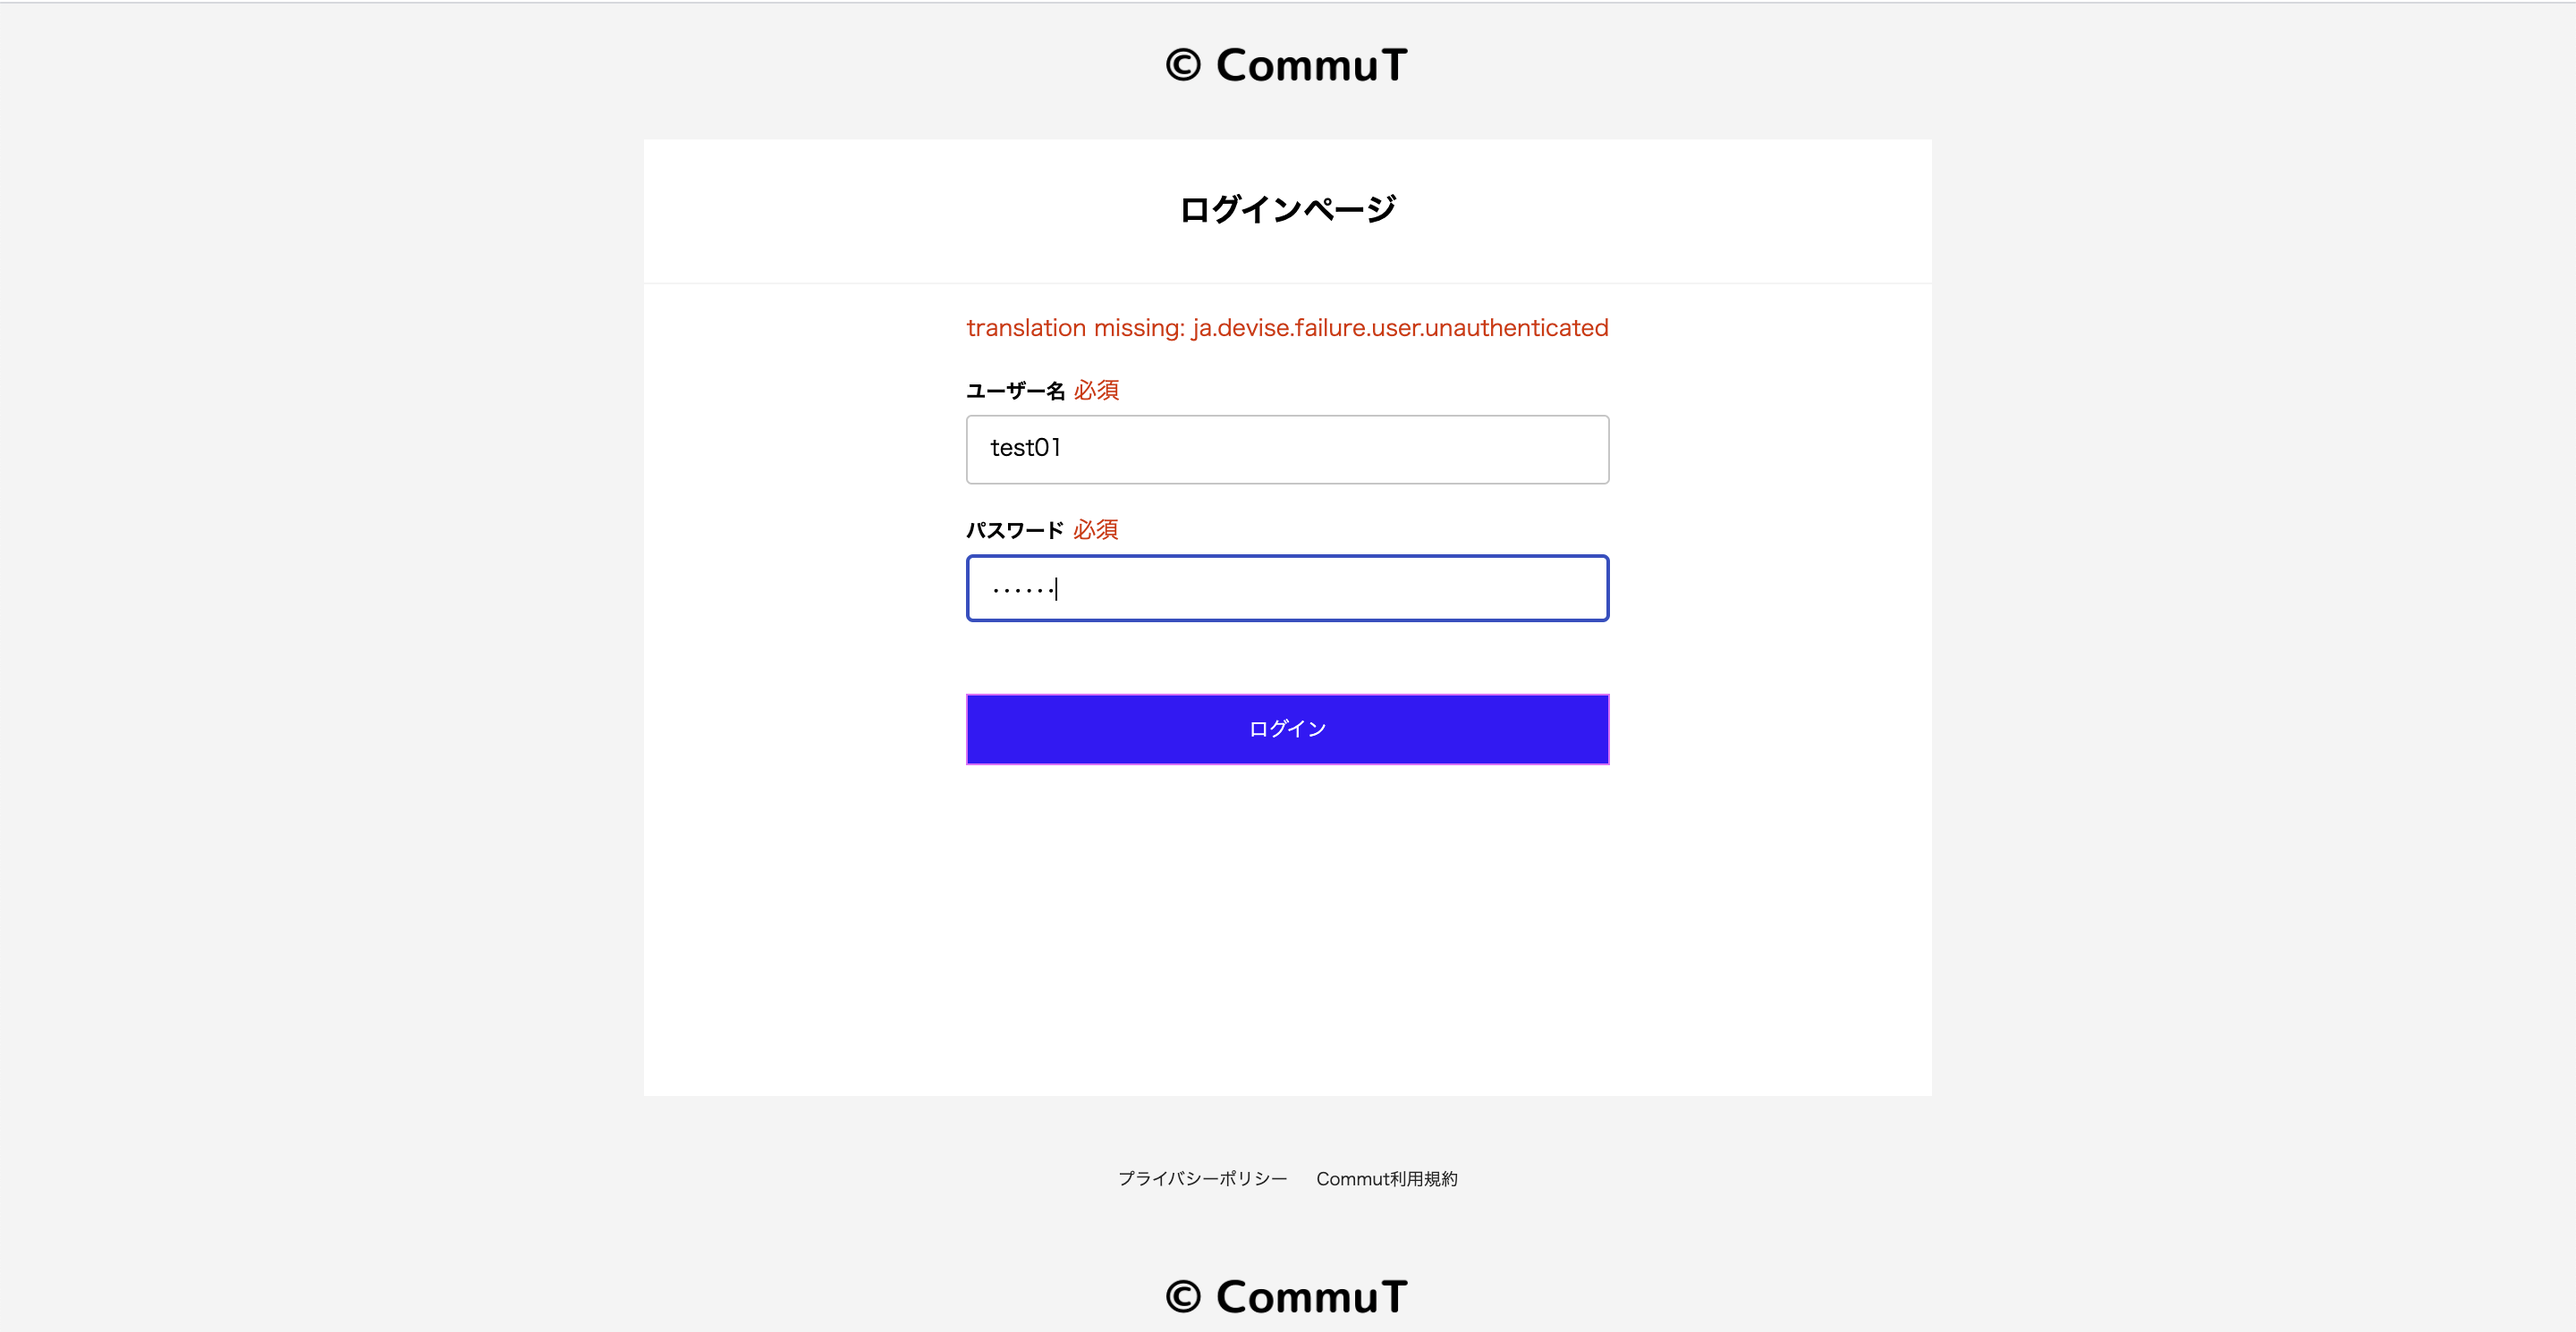
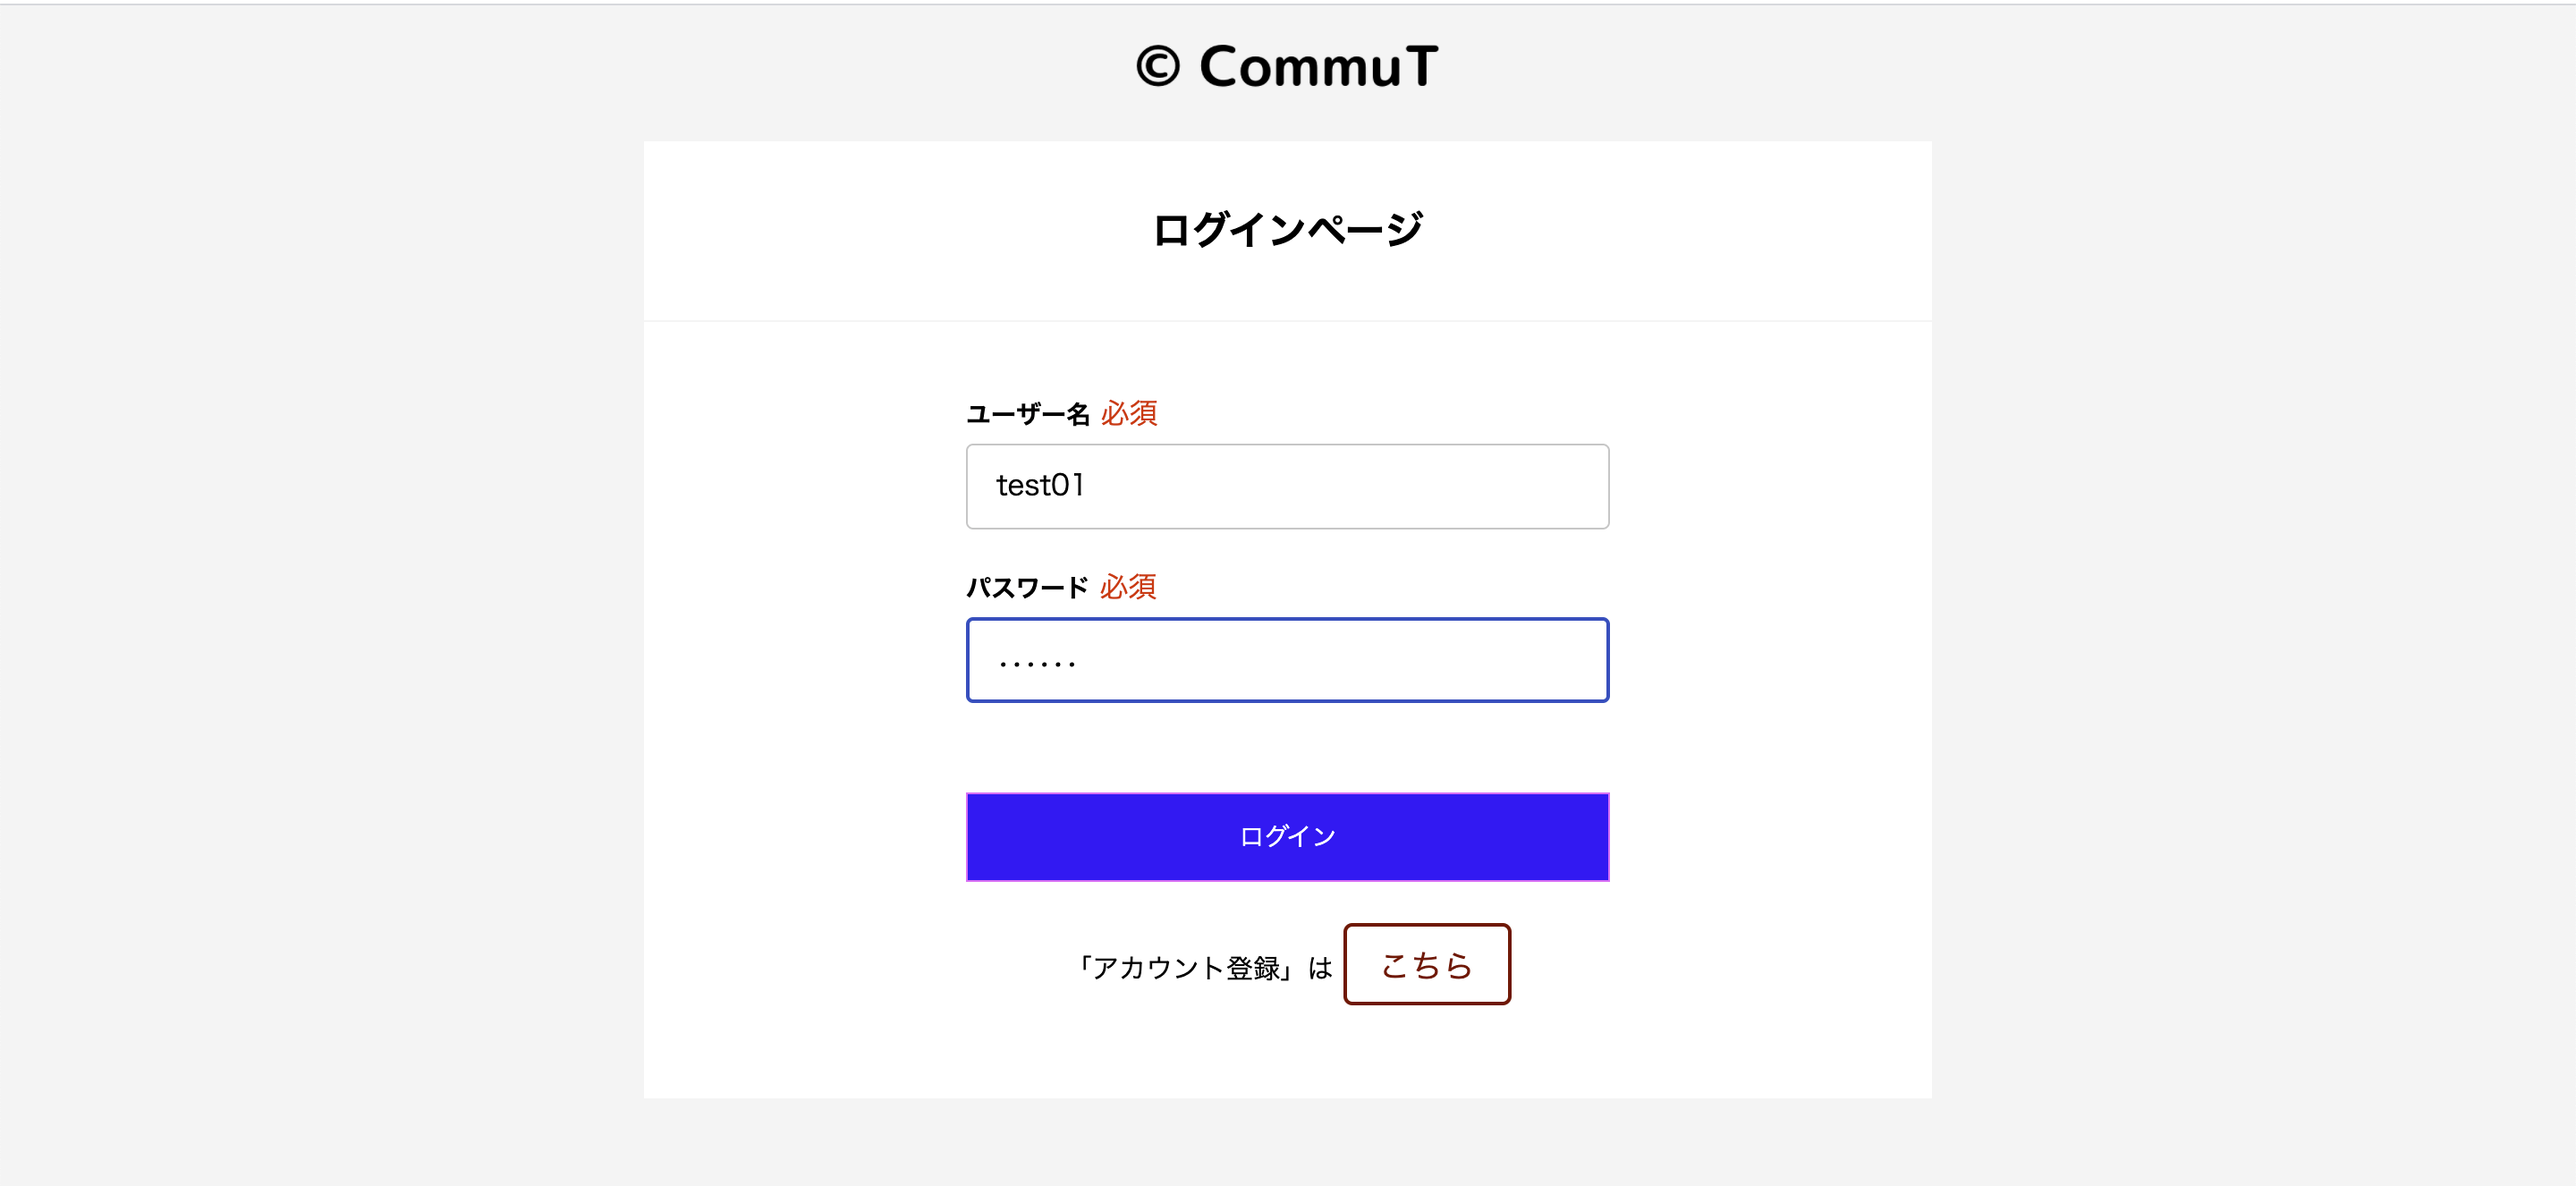
修正

diff --git a/app/assets/stylesheets/user/login.css b/app/assets/stylesheets/user/login.css
@@ -47,3 +47,7 @@
 .container{
   height: 70vh;
 }
+
+.registrations-page{
+  margin-top: 3vh;
+}

diff --git a/config/routes.rb b/config/routes.rb
@@ -1,7 +1,6 @@
 Rails.application.routes.draw do
-  devise_for :users
-  
   root to: "posts#index"
+  devise_for :users
 
   resources :posts do
     resources :messages, only: [:index, :new, :create, :show, :destroy, :edit]
